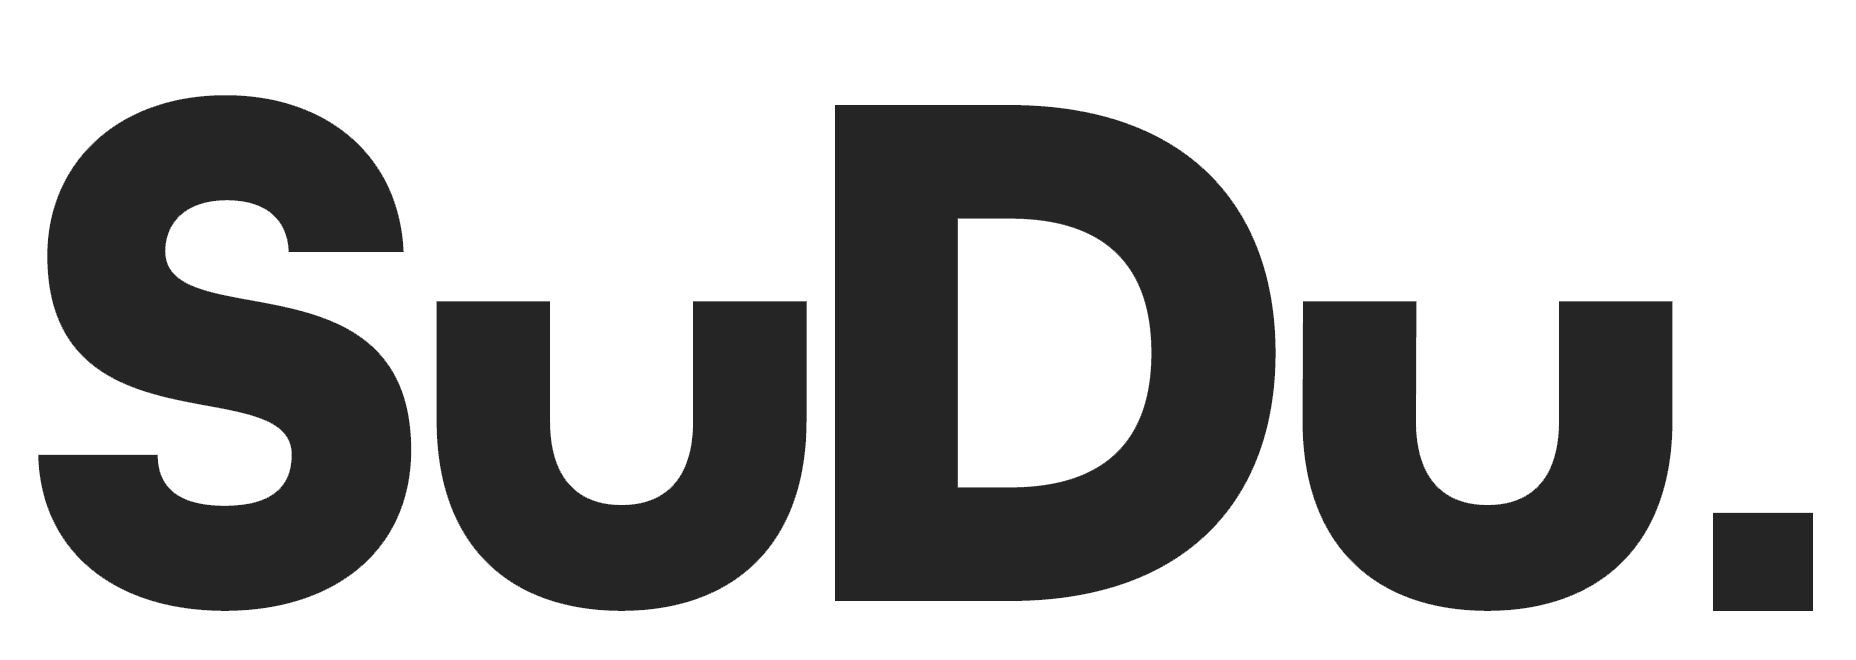
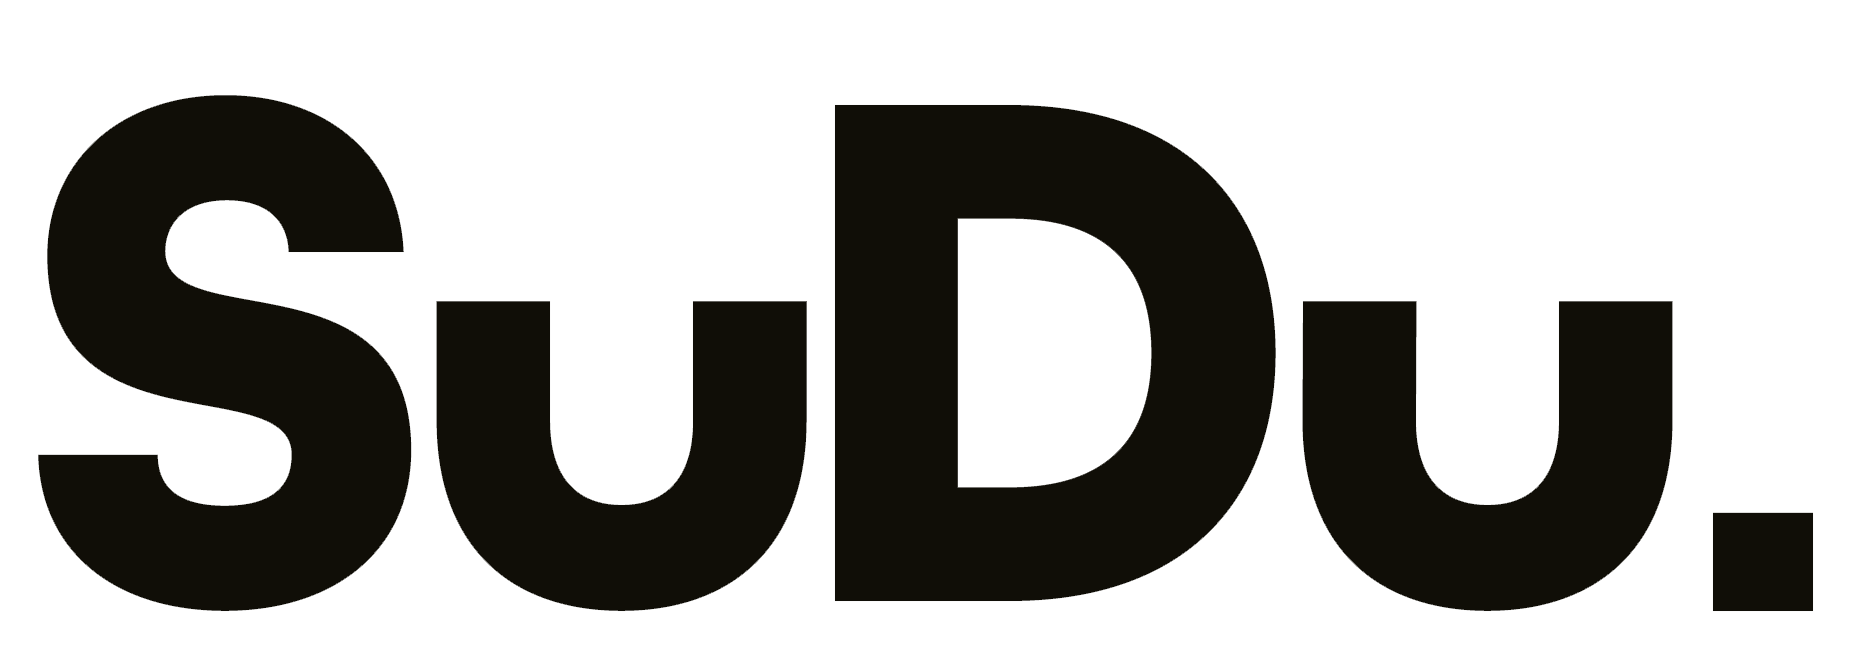
Unify every white in dark and red mode on the page cream
Dark and red mode render by inverting the page, so the site ink #171613
came out as rgb(234,233,230) - a cooler, dimmer white than the cream the
light page uses. rgb(16,14,7) is the exact pre-image of rgb(243,241,234)
under invert(1) hue-rotate(180deg), so the ink is set to that wherever it
becomes white:

- text inherits it from the page wrapper, leaving the greys and the accent
  untouched
- the hero drawing, the founders illustration and the wordmark have their
  ink recoloured at source, with the old lightness variation folded into
  alpha so the line weight is unchanged
- the footer mark drops its 85% opacity in dark mode, where it read as a
  dimmer white than its surroundings
- the footer track chip, which inverts into a light surface, takes the same
  ink in dark mode only

Measured in Chromium across all five pages in both modes: text, wordmark,
illustration and chip land on rgb(243,241,234).

diff --git a/contact.html b/contact.html
@@ -113,6 +113,9 @@
   html.dm [style-hover*="E8E5DC"]:hover { background: rgba(16,14,7,0.08) !important; }
   html.dm #dmSwatches button { filter: invert(1) hue-rotate(180deg); }
   html.dm .sudu-pv { filter: invert(1) hue-rotate(180deg); }
+  /* Text reading as white in dark mode: rgb(16,14,7) is the pre-image of the page
+     cream rgb(243,241,234) under invert(1) hue-rotate(180deg). */
+  html.dm section, html.dm footer, html.dm .sudu-pv, html.dm .dm-wrap { color: rgb(16,14,7) !important; }
   html.dm.dmred section *, html.dm.dmred footer *, html.dm.dmred .sudu-pv * { color: rgb(16,14,7) !important; }
   html.dm.dmred header * { color:#F3F1EA !important; }
   html.dm.dmred footer [data-track][data-active="true"] { color: rgb(243,241,234) !important; }
@@ -120,6 +123,7 @@
   html.dm img, html.dm video { filter: invert(1) hue-rotate(180deg) !important; }
   html.dm img#heroImg, html.dm img[src*="hero-drawing"], html.dm img[src*="team-illustration"] { filter: none !important; mix-blend-mode:normal !important; }
   html.dm footer img[src*="sudu-mark"] { filter: none !important; mix-blend-mode:normal !important; }
+  html.dm footer img[src*="sudu-mark"] { opacity: 1 !important; }
   html.dm section img[src*="sudu-mark"], html.dm .dm-wrap > *:not(section):not(header):not(footer) img[src*="sudu-mark"] { filter: none !important; mix-blend-mode:normal !important; }
   html.dm header img[src*="sudu-mark"] { filter: invert(1) hue-rotate(180deg) !important; }
   
@@ -136,7 +140,7 @@ build();setInterval(build,1500);})();
 function patch(){for(var i=0;i<document.styleSheets.length;i++){var rules;try{rules=document.styleSheets[i].cssRules;}catch(e){continue;}for(var j=0;j<rules.length;j++){var r=rules[j];if(r.style&&r.selectorText&&r.selectorText.indexOf(':hover')>-1&&/232, 229, 220/.test(r.style.background||'')&&(r.style.background||'').indexOf('var(')===-1){r.style.setProperty('background','var(--sudu-hover-tint, rgb(232, 229, 220))','important');}}}}
 patch();setInterval(patch,1500);})();</script>
 <script src="i18n.js" defer></script>
-<script src="js/audio-player.js?v=4" defer></script>
+<script src="js/audio-player.js?v=5" defer></script>
 </helmet>
 
 <div style="background:#F3F1EA; color:#171613; font-family:'Urbanist', sans-serif; min-height:100svh; display:flex; flex-direction:column;">

diff --git a/index.html b/index.html
@@ -116,6 +116,9 @@
   html.dm [style-hover*="E8E5DC"]:hover { background: rgba(16,14,7,0.08) !important; }
   html.dm #dmSwatches button { filter: invert(1) hue-rotate(180deg); }
   html.dm .sudu-pv { filter: invert(1) hue-rotate(180deg); }
+  /* Text reading as white in dark mode: rgb(16,14,7) is the pre-image of the page
+     cream rgb(243,241,234) under invert(1) hue-rotate(180deg). */
+  html.dm section, html.dm footer, html.dm .sudu-pv, html.dm .dm-wrap { color: rgb(16,14,7) !important; }
   html.dm.dmred section *, html.dm.dmred footer *, html.dm.dmred .sudu-pv * { color: rgb(16,14,7) !important; }
   html.dm.dmred header * { color:#F3F1EA !important; }
   html.dm.dmred footer [data-track][data-active="true"] { color: rgb(243,241,234) !important; }
@@ -123,6 +126,7 @@
   html.dm img, html.dm video { filter: invert(1) hue-rotate(180deg) !important; }
   html.dm img#heroImg, html.dm img[src*="hero-drawing"], html.dm img[src*="team-illustration"] { filter: none !important; mix-blend-mode:normal !important; }
   html.dm footer img[src*="sudu-mark"] { filter: none !important; mix-blend-mode:normal !important; }
+  html.dm footer img[src*="sudu-mark"] { opacity: 1 !important; }
   html.dm section img[src*="sudu-mark"], html.dm .dm-wrap > *:not(section):not(header):not(footer) img[src*="sudu-mark"] { filter: none !important; mix-blend-mode:normal !important; }
   html.dm header img[src*="sudu-mark"] { filter: invert(1) hue-rotate(180deg) !important; }
   
@@ -139,7 +143,7 @@ build();setInterval(build,1500);})();
 function patch(){for(var i=0;i<document.styleSheets.length;i++){var rules;try{rules=document.styleSheets[i].cssRules;}catch(e){continue;}for(var j=0;j<rules.length;j++){var r=rules[j];if(r.style&&r.selectorText&&r.selectorText.indexOf(':hover')>-1&&/232, 229, 220/.test(r.style.background||'')&&(r.style.background||'').indexOf('var(')===-1){r.style.setProperty('background','var(--sudu-hover-tint, rgb(232, 229, 220))','important');}}}}
 patch();setInterval(patch,1500);})();</script>
 <script src="i18n.js" defer></script>
-<script src="js/audio-player.js?v=4" defer></script>
+<script src="js/audio-player.js?v=5" defer></script>
 </helmet>
 
 <div style="background:#F3F1EA; color:#171613; font-family:'Urbanist', sans-serif;">

diff --git a/project.html b/project.html
@@ -56,6 +56,9 @@
   html.dm [style-hover*="E8E5DC"]:hover { background: rgba(16,14,7,0.08) !important; }
   html.dm #dmSwatches button { filter: invert(1) hue-rotate(180deg); }
   html.dm .sudu-pv { filter: invert(1) hue-rotate(180deg); }
+  /* Text reading as white in dark mode: rgb(16,14,7) is the pre-image of the page
+     cream rgb(243,241,234) under invert(1) hue-rotate(180deg). */
+  html.dm section, html.dm footer, html.dm .sudu-pv, html.dm .dm-wrap { color: rgb(16,14,7) !important; }
   html.dm.dmred section *, html.dm.dmred footer *, html.dm.dmred .sudu-pv * { color: rgb(16,14,7) !important; }
   html.dm.dmred header * { color:#F3F1EA !important; }
   html.dm.dmred footer [data-track][data-active="true"] { color: rgb(243,241,234) !important; }
@@ -63,6 +66,7 @@
   html.dm img, html.dm video { filter: invert(1) hue-rotate(180deg) !important; }
   html.dm img#heroImg, html.dm img[src*="hero-drawing"], html.dm img[src*="team-illustration"] { filter: none !important; mix-blend-mode:normal !important; }
   html.dm footer img[src*="sudu-mark"] { filter: none !important; mix-blend-mode:normal !important; }
+  html.dm footer img[src*="sudu-mark"] { opacity: 1 !important; }
   html.dm section img[src*="sudu-mark"], html.dm .dm-wrap > *:not(section):not(header):not(footer) img[src*="sudu-mark"] { filter: none !important; mix-blend-mode:normal !important; }
   html.dm header img[src*="sudu-mark"] { filter: invert(1) hue-rotate(180deg) !important; }
   
@@ -79,7 +83,7 @@ build();setInterval(build,1500);})();
 function patch(){for(var i=0;i<document.styleSheets.length;i++){var rules;try{rules=document.styleSheets[i].cssRules;}catch(e){continue;}for(var j=0;j<rules.length;j++){var r=rules[j];if(r.style&&r.selectorText&&r.selectorText.indexOf(':hover')>-1&&/232, 229, 220/.test(r.style.background||'')&&(r.style.background||'').indexOf('var(')===-1){r.style.setProperty('background','var(--sudu-hover-tint, rgb(232, 229, 220))','important');}}}}
 patch();setInterval(patch,1500);})();</script>
 <script src="i18n.js" defer></script>
-<script src="js/audio-player.js?v=4" defer></script>
+<script src="js/audio-player.js?v=5" defer></script>
 </helmet>
 
 <div style="background:#F3F1EA; color:#171613; font-family:'Urbanist', sans-serif;">

diff --git a/studio.html b/studio.html
@@ -55,6 +55,9 @@
   html.dm [style-hover*="E8E5DC"]:hover { background: rgba(16,14,7,0.08) !important; }
   html.dm #dmSwatches button { filter: invert(1) hue-rotate(180deg); }
   html.dm .sudu-pv { filter: invert(1) hue-rotate(180deg); }
+  /* Text reading as white in dark mode: rgb(16,14,7) is the pre-image of the page
+     cream rgb(243,241,234) under invert(1) hue-rotate(180deg). */
+  html.dm section, html.dm footer, html.dm .sudu-pv, html.dm .dm-wrap { color: rgb(16,14,7) !important; }
   html.dm.dmred section *, html.dm.dmred footer *, html.dm.dmred .sudu-pv * { color: rgb(16,14,7) !important; }
   html.dm.dmred header * { color:#F3F1EA !important; }
   html.dm.dmred footer [data-track][data-active="true"] { color: rgb(243,241,234) !important; }
@@ -62,6 +65,7 @@
   html.dm img, html.dm video { filter: invert(1) hue-rotate(180deg) !important; }
   html.dm img#heroImg, html.dm img[src*="hero-drawing"], html.dm img[src*="team-illustration"] { filter: none !important; mix-blend-mode:normal !important; }
   html.dm footer img[src*="sudu-mark"] { filter: none !important; mix-blend-mode:normal !important; }
+  html.dm footer img[src*="sudu-mark"] { opacity: 1 !important; }
   html.dm section img[src*="sudu-mark"], html.dm .dm-wrap > *:not(section):not(header):not(footer) img[src*="sudu-mark"] { filter: none !important; mix-blend-mode:normal !important; }
   html.dm header img[src*="sudu-mark"] { filter: invert(1) hue-rotate(180deg) !important; }
   
@@ -78,7 +82,7 @@ build();setInterval(build,1500);})();
 function patch(){for(var i=0;i<document.styleSheets.length;i++){var rules;try{rules=document.styleSheets[i].cssRules;}catch(e){continue;}for(var j=0;j<rules.length;j++){var r=rules[j];if(r.style&&r.selectorText&&r.selectorText.indexOf(':hover')>-1&&/232, 229, 220/.test(r.style.background||'')&&(r.style.background||'').indexOf('var(')===-1){r.style.setProperty('background','var(--sudu-hover-tint, rgb(232, 229, 220))','important');}}}}
 patch();setInterval(patch,1500);})();</script>
 <script src="i18n.js" defer></script>
-<script src="js/audio-player.js?v=4" defer></script>
+<script src="js/audio-player.js?v=5" defer></script>
 </helmet>
 
 <div style="background:#F3F1EA; color:#171613; font-family:'Urbanist', sans-serif;">

diff --git a/work.html b/work.html
@@ -55,6 +55,9 @@
   html.dm [style-hover*="E8E5DC"]:hover { background: rgba(16,14,7,0.08) !important; }
   html.dm #dmSwatches button { filter: invert(1) hue-rotate(180deg); }
   html.dm .sudu-pv { filter: invert(1) hue-rotate(180deg); }
+  /* Text reading as white in dark mode: rgb(16,14,7) is the pre-image of the page
+     cream rgb(243,241,234) under invert(1) hue-rotate(180deg). */
+  html.dm section, html.dm footer, html.dm .sudu-pv, html.dm .dm-wrap { color: rgb(16,14,7) !important; }
   html.dm.dmred section *, html.dm.dmred footer *, html.dm.dmred .sudu-pv * { color: rgb(16,14,7) !important; }
   html.dm.dmred header * { color:#F3F1EA !important; }
   html.dm.dmred footer [data-track][data-active="true"] { color: rgb(243,241,234) !important; }
@@ -62,6 +65,7 @@
   html.dm img, html.dm video { filter: invert(1) hue-rotate(180deg) !important; }
   html.dm img#heroImg, html.dm img[src*="hero-drawing"], html.dm img[src*="team-illustration"] { filter: none !important; mix-blend-mode:normal !important; }
   html.dm footer img[src*="sudu-mark"] { filter: none !important; mix-blend-mode:normal !important; }
+  html.dm footer img[src*="sudu-mark"] { opacity: 1 !important; }
   html.dm section img[src*="sudu-mark"], html.dm .dm-wrap > *:not(section):not(header):not(footer) img[src*="sudu-mark"] { filter: none !important; mix-blend-mode:normal !important; }
   html.dm header img[src*="sudu-mark"] { filter: invert(1) hue-rotate(180deg) !important; }
   
@@ -78,7 +82,7 @@ build();setInterval(build,1500);})();
 function patch(){for(var i=0;i<document.styleSheets.length;i++){var rules;try{rules=document.styleSheets[i].cssRules;}catch(e){continue;}for(var j=0;j<rules.length;j++){var r=rules[j];if(r.style&&r.selectorText&&r.selectorText.indexOf(':hover')>-1&&/232, 229, 220/.test(r.style.background||'')&&(r.style.background||'').indexOf('var(')===-1){r.style.setProperty('background','var(--sudu-hover-tint, rgb(232, 229, 220))','important');}}}}
 patch();setInterval(patch,1500);})();</script>
 <script src="i18n.js" defer></script>
-<script src="js/audio-player.js?v=4" defer></script>
+<script src="js/audio-player.js?v=5" defer></script>
 </helmet>
 
 <div style="background:#F3F1EA; color:#171613; font-family:'Urbanist', sans-serif;">

diff --git a/js/audio-player.js b/js/audio-player.js
@@ -33,6 +33,9 @@
     '#trackSwitch:hover{color:#171613;}' +
     '.track-pill button:hover{color:#171613 !important;}' +
     '.track-pill button.on{background:#171613 !important;color:#F3F1EA !important;}' +
+    // in dark/red mode the chip is inverted into a light surface, so it needs the
+    // ink that maps onto the page cream rather than the light-mode ink
+    'html.dm .track-pill button.on{background:rgb(16,14,7) !important;}' +
     '.track-pill button.on:hover{color:#F3F1EA !important;}';
   document.head.appendChild(css);
 
